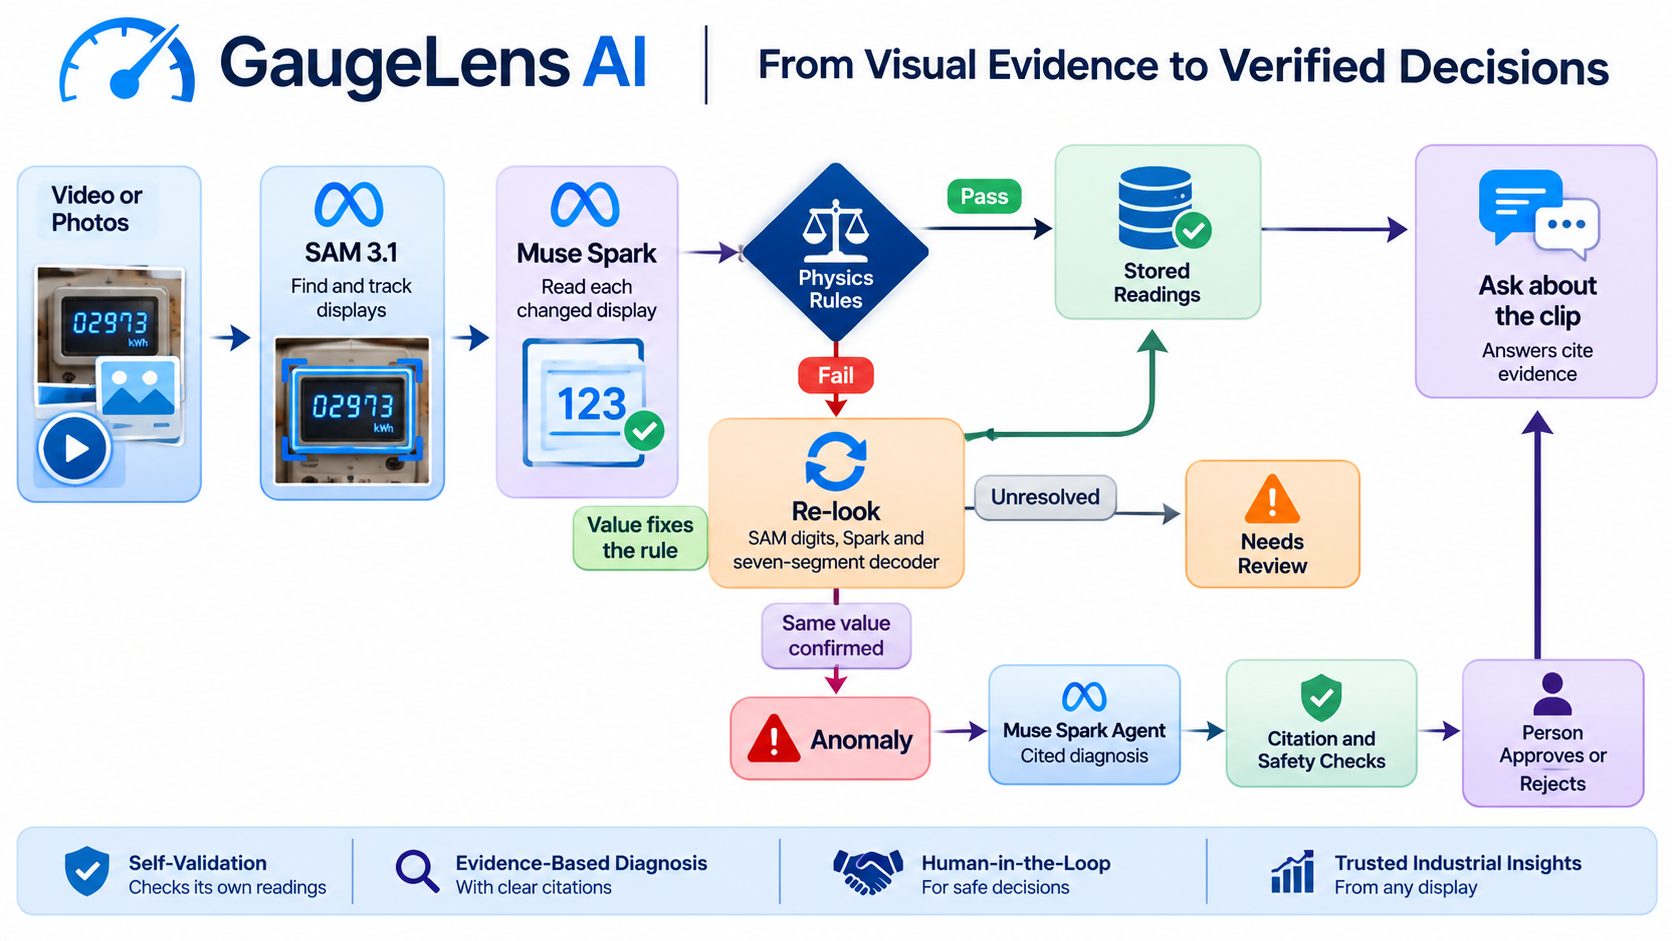
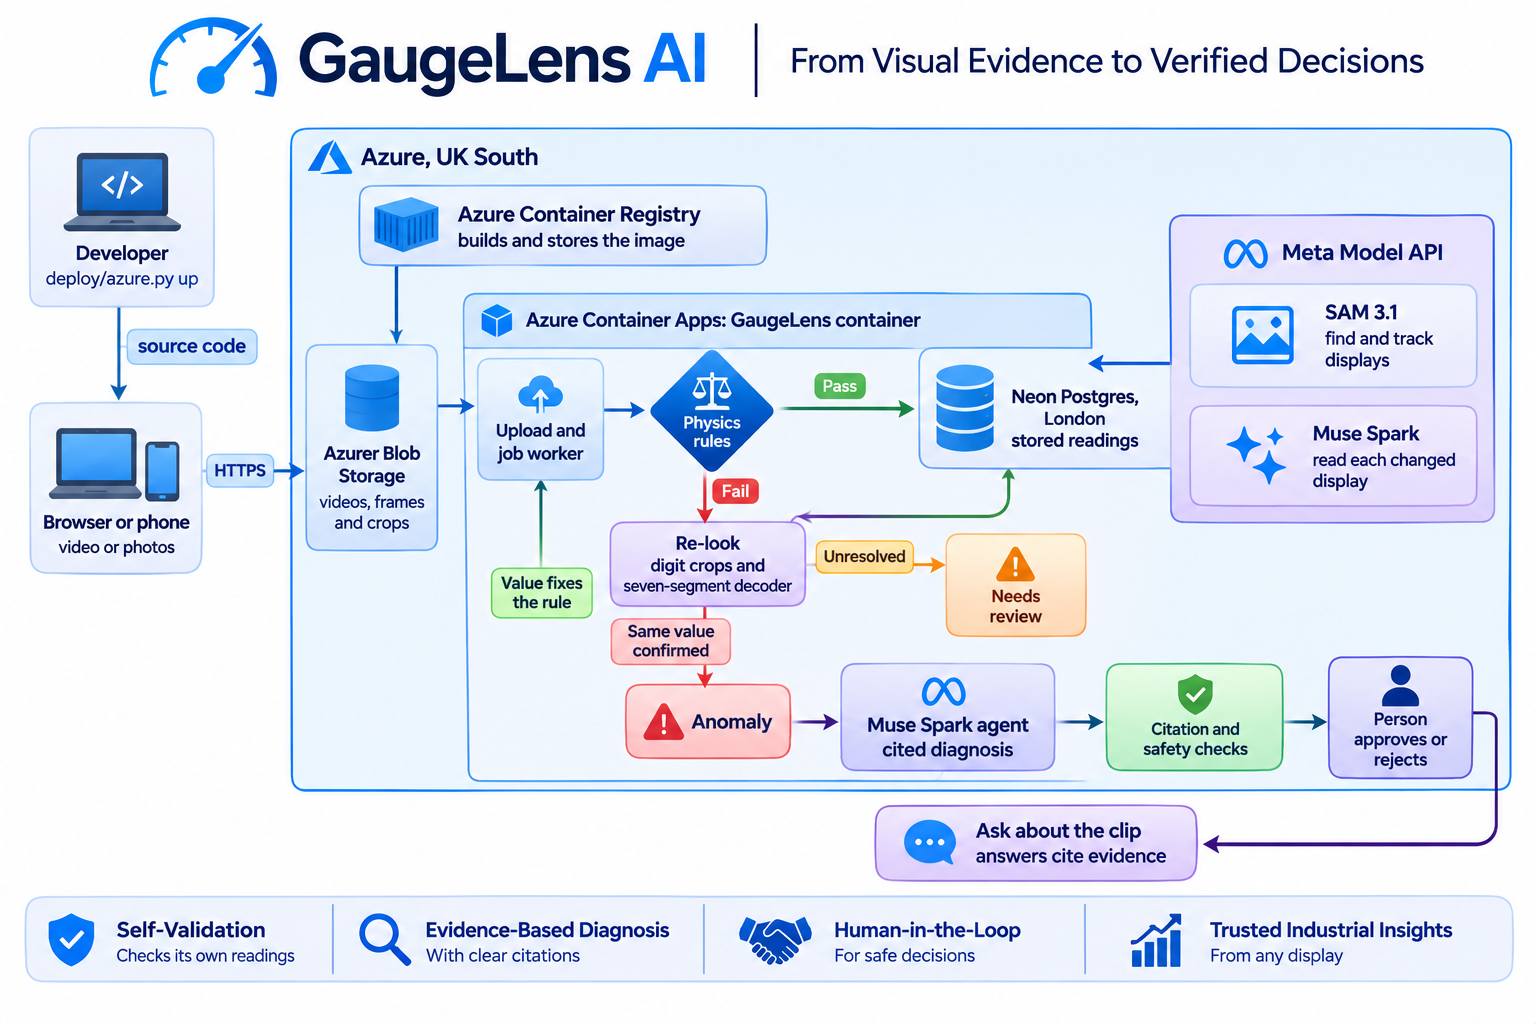
Update the architecture infographic

diff --git a/README.md b/README.md
@@ -29,7 +29,7 @@ If a re-look can't resolve the conflict, GaugeLens doesn't guess. The reading go
 
 ## How it works
 
-![GaugeLens flow: SAM 3.1 finds and tracks displays, Muse Spark reads them and physics rules check the values. Passing values are stored. Failures go to a re-look, which stores a fixed value, sends an unresolved reading to review, or opens an anomaly when the same value is confirmed. An anomaly gets a cited diagnosis from the Muse Spark agent, citation and safety checks, then a person's approval or rejection.](assets/architecture.png)
+![GaugeLens architecture on Azure, UK South: the app runs in Azure Container Apps from an image in Azure Container Registry, with evidence in Azure Blob Storage, readings in Neon Postgres, and SAM 3.1 and Muse Spark on the Meta Model API. Physics rules check each reading. Failures go to a re-look, which stores a fixed value, sends an unresolved reading to review, or opens an anomaly when the same value is confirmed. An anomaly gets a cited diagnosis, citation and safety checks, then a person's approval or rejection.](assets/architecture.png)
 
 You can ask about a clip at any point once it has readings. It doesn't need to wait for a decision on an anomaly.
 
@@ -158,6 +158,31 @@ To reproduce the evaluation:
 .venv\Scripts\python -m backend.app.cli eval                                                                     # uses model credits
 ```
 
+## Deployment
+
+```mermaid
+flowchart LR
+    Dev["Developer<br/>deploy/azure.py up"] -- "source code" --> ACR
+
+    subgraph Azure["Azure, UK South"]
+        ACR["Azure Container Registry<br/>builds and stores the image"]
+        subgraph CA["Azure Container Apps"]
+            App["GaugeLens container<br/>FastAPI, worker and React app"]
+        end
+        Blob[("Azure Blob Storage<br/>videos, frames and crops")]
+        ACR -- "image" --> App
+        App <--> Blob
+    end
+
+    User["Browser or phone"] <-- "HTTPS" --> App
+    App <--> Neon[("Neon Postgres, London<br/>readings, checks and accounts")]
+    App <--> Meta["Meta Model API<br/>SAM 3.1 and Muse Spark"]
+```
+
+- **Build:** `deploy/azure.py up` sends the source to Azure Container Registry, which builds the image from the [Dockerfile](Dockerfile).
+- **Run:** one container serves the API and the web app, and runs the background worker. It has 1 CPU and 2 GiB of memory, and scales between 0 and 1 copies, so it costs little when idle and takes a few seconds to wake.
+- **Secrets:** settings from `.env` are stored as Container App secrets, not as plain values or in the image.
+
 ## Stack
 
 | Layer | Technology |
@@ -166,7 +191,7 @@ To reproduce the evaluation:
 | Backend | Python, FastAPI, asyncpg, with a job queue in Postgres and live progress over server-sent events |
 | Database | PostgreSQL with TimescaleDB locally, Neon when hosted |
 | Web | React 18, Vite, TypeScript, Playwright |
-| Hosting | Azure Container Apps, Azure Blob Storage for evidence ([deploy/azure.py](deploy/azure.py)) |
+| Hosting | Azure Container Apps, Azure Container Registry, Azure Blob Storage for evidence ([deploy/azure.py](deploy/azure.py)) |
 
 ## Repository layout
 
